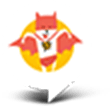
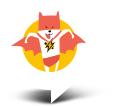
map in mobile layout fixed, new map-pin-mobile.png

diff --git a/source/catalogue.html b/source/catalogue.html
@@ -375,7 +375,8 @@
             <div class="product-card__plus">
               <picture>
                 <source media="(min-width: 768px)" srcset="img/plus.svg">
-                <img src="img/plus-mobile.svg" width="30" height="30" alt="Отображение большего количества товаров" loading="lazy">
+                <img src="img/plus-mobile.svg" width="30" height="30" alt="Отображение большего количества товаров"
+                  loading="lazy">
               </picture>
             </div>
 
@@ -481,22 +482,25 @@
 
     <div class="page-footer__map">
       <picture>
-        <source media="(min-width: 768px)" srcset="img/map-pin-tab&dtp@2x.webp 2x, img/map-pin-tab&dtp.webp">
+        <source media="(min-width: 768px)" type="image/webp"
+          srcset="img/map-pin-tab&dtp@2x.webp 2x, img/map-pin-tab&dtp.webp">
         <source media="(min-width: 768px)" srcset="img/map-pin-tab&dtp@2x.png 2x, img/map-pin-tab&dtp.png">
-        <source srcset="img/map-pin-mobile@2x.webp 2x, img/map-pin-mobile.webp">
-        <source srcset="img/map-pin-mobile@2x.jpg 2x, img/map-pin-mobile.jpg">
-        <img class="pin" width="55" height="53" src="img/map-pin-mobile.jpg" alt="Маркер здания на карте" loading="lazy">
+        <source type="image/webp" srcset="img/map-pin-mobile@2x.webp 2x, img/map-pin-mobile.webp">
+        <source srcset="img/map-pin-mobile@2x.png 2x, img/map-pin-mobile.png">
+        <img class="pin" width="55" height="53" src="img/map-pin-mobile.png" alt="Маркер здания на карте"
+          loading="lazy">
       </picture>
 
-      <!-- карта резиновая - потому размеры большие у изображений -->
+      <!-- карта резиновая - потому размеры большие у изображений, type указывать обязательно без него Сафари не определяет другое изображение -->
       <picture>
+        <source media="(min-width: 1440px)" type="image/webp" srcset="img/map-desktop@2x.webp 2x, img/map-desktop.webp">
         <source media="(min-width: 1440px)" srcset="img/map-desktop@2x.jpg 2x, img/map-desktop.jpg">
-        <source media="(min-width: 1440px)" srcset="img/map-desktop@2x.webp 2x, img/map-desktop.webp">
+        <source media="(min-width: 768px)" type="image/webp" srcset="img/map-tablet@2x.webp 2x, img/map-tablet.webp">
         <source media="(min-width: 768px)" srcset="img/map-tablet@2x.jpg 2x, img/map-tablet.jpg">
-        <source media="(min-width: 768px)" srcset="img/map-tablet@2x.webp 2x, img/map-tablet.webp">
-        <source srcset="img/map-mobile@2x.webp 2x, img/map-mobile.webp">
+        <source type="image/webp" srcset="img/map-mobile@2x.webp 2x, img/map-mobile.webp">
         <source srcset="img/map-mobile@2x.jpg 2x, img/map-mobile.jpg">
-        <img class="map" width="1534" height="1917" src="img/map-mobile.jpg" alt="Карта проезда: ул. Большая Конюшенная, д. 19/8 Санкт-Петербург" loading="lazy">
+        <img class="map" width="425" width="531" src="img/map-mobile.jpg"
+          alt="Карта проезда: ул. Большая Конюшенная, д. 19/8 Санкт-Петербург" loading="lazy">
       </picture>
 
       <!-- real google maps iframe-->
@@ -508,10 +512,10 @@
     </div>
 
     <div class="page-footer__bottom-wrapper">
-      <div class="page-footer__logo-headline" tabindex="0">
+      <a class="page-footer__logo-headline" tabindex="0">
         <img src="img/logo-mobile-name.svg" width="128" height="24" alt="Cat Energy - функциональное питание для котов"
           loading="lazy">
-      </div>
+      </a>
 
       <hr class="divider divider--mobile-only">
 
@@ -541,7 +545,7 @@
         </ul>
       </div>
 
-      <hr class="divider divider--mobile-only">
+      <hr class="divider divider--footer divider--mobile-only">
 
       <div class="page-footer__copyright copyright">
         <a href="#" class="copyright__link">HTML Academy

diff --git a/source/form.html b/source/form.html
@@ -177,23 +177,26 @@
 
     <div class="page-footer__map">
       <picture>
-        <source media="(min-width: 768px)" srcset="img/map-pin-tab&dtp@2x.webp 2x, img/map-pin-tab&dtp.webp">
-        <source media="(min-width: 768px)" srcset="img/map-pin-tab&dtp@2x.png 2x, img/map-pin-tab&dtp.png">
-        <source srcset="img/map-pin-mobile@2x.webp 2x, img/map-pin-mobile.webp">
-        <source srcset="img/map-pin-mobile@2x.jpg 2x, img/map-pin-mobile.jpg">
-        <img class="pin" width="55" height="53" src="img/map-pin-mobile.jpg" alt="Маркер здания на карте"
+        <source media="(min-width: 768px)"  type="image/webp"
+        srcset="img/map-pin-tab&dtp@2x.webp 2x, img/map-pin-tab&dtp.webp">
+        <source media="(min-width: 768px)"
+        srcset="img/map-pin-tab&dtp@2x.png 2x, img/map-pin-tab&dtp.png">
+        <source type="image/webp"
+        srcset="img/map-pin-mobile@2x.webp 2x, img/map-pin-mobile.webp">
+        <source srcset="img/map-pin-mobile@2x.png 2x, img/map-pin-mobile.png">
+        <img class="pin" width="55" height="53" src="img/map-pin-mobile.png" alt="Маркер здания на карте"
           loading="lazy">
       </picture>
 
-      <!-- карта резиновая - потому размеры большие у изображений -->
+      <!-- карта резиновая - потому размеры большие у изображений, type указывать обязательно без него Сафари не определяет другое изображение -->
       <picture>
+        <source media="(min-width: 1440px)" type="image/webp" srcset="img/map-desktop@2x.webp 2x, img/map-desktop.webp">
         <source media="(min-width: 1440px)" srcset="img/map-desktop@2x.jpg 2x, img/map-desktop.jpg">
-        <source media="(min-width: 1440px)" srcset="img/map-desktop@2x.webp 2x, img/map-desktop.webp">
+        <source media="(min-width: 768px)" type="image/webp" srcset="img/map-tablet@2x.webp 2x, img/map-tablet.webp">
         <source media="(min-width: 768px)" srcset="img/map-tablet@2x.jpg 2x, img/map-tablet.jpg">
-        <source media="(min-width: 768px)" srcset="img/map-tablet@2x.webp 2x, img/map-tablet.webp">
-        <source srcset="img/map-mobile@2x.webp 2x, img/map-mobile.webp">
+        <source type="image/webp" srcset="img/map-mobile@2x.webp 2x, img/map-mobile.webp">
         <source srcset="img/map-mobile@2x.jpg 2x, img/map-mobile.jpg">
-        <img class="map" width="1534" height="1917" src="img/map-mobile.jpg"
+        <img class="map" width="425" width="531" src="img/map-mobile.jpg"
           alt="Карта проезда: ул. Большая Конюшенная, д. 19/8 Санкт-Петербург" loading="lazy">
       </picture>
 
@@ -206,10 +209,10 @@
     </div>
 
     <div class="page-footer__bottom-wrapper">
-      <div class="page-footer__logo-headline" tabindex="0">
+      <a class="page-footer__logo-headline" tabindex="0">
         <img src="img/logo-mobile-name.svg" width="128" height="24" alt="Cat Energy - функциональное питание для котов"
           loading="lazy">
-      </div>
+      </a>
 
       <hr class="divider divider--mobile-only">
 
@@ -239,7 +242,7 @@
         </ul>
       </div>
 
-      <hr class="divider divider--mobile-only">
+      <hr class="divider divider--footer divider--mobile-only">
 
       <div class="page-footer__copyright copyright">
         <a href="#" class="copyright__link">HTML Academy

diff --git a/source/index.html b/source/index.html
@@ -227,23 +227,26 @@
 
     <div class="page-footer__map">
       <picture>
-        <source media="(min-width: 768px)" srcset="img/map-pin-tab&dtp@2x.webp 2x, img/map-pin-tab&dtp.webp">
-        <source media="(min-width: 768px)" srcset="img/map-pin-tab&dtp@2x.png 2x, img/map-pin-tab&dtp.png">
-        <source srcset="img/map-pin-mobile@2x.webp 2x, img/map-pin-mobile.webp">
-        <source srcset="img/map-pin-mobile@2x.jpg 2x, img/map-pin-mobile.jpg">
-        <img class="pin" width="55" height="53" src="img/map-pin-mobile.jpg" alt="Маркер здания на карте"
+        <source media="(min-width: 768px)"  type="image/webp"
+        srcset="img/map-pin-tab&dtp@2x.webp 2x, img/map-pin-tab&dtp.webp">
+        <source media="(min-width: 768px)"
+        srcset="img/map-pin-tab&dtp@2x.png 2x, img/map-pin-tab&dtp.png">
+        <source type="image/webp"
+        srcset="img/map-pin-mobile@2x.webp 2x, img/map-pin-mobile.webp">
+        <source srcset="img/map-pin-mobile@2x.png 2x, img/map-pin-mobile.png">
+        <img class="pin" width="55" height="53" src="img/map-pin-mobile.png" alt="Маркер здания на карте"
           loading="lazy">
       </picture>
 
-      <!-- карта резиновая - потому размеры большие у изображений -->
+      <!-- карта резиновая - потому размеры большие у изображений, type указывать обязательно без него Сафари не определяет другое изображение -->
       <picture>
+        <source media="(min-width: 1440px)" type="image/webp" srcset="img/map-desktop@2x.webp 2x, img/map-desktop.webp">
         <source media="(min-width: 1440px)" srcset="img/map-desktop@2x.jpg 2x, img/map-desktop.jpg">
-        <source media="(min-width: 1440px)" srcset="img/map-desktop@2x.webp 2x, img/map-desktop.webp">
+        <source media="(min-width: 768px)" type="image/webp" srcset="img/map-tablet@2x.webp 2x, img/map-tablet.webp">
         <source media="(min-width: 768px)" srcset="img/map-tablet@2x.jpg 2x, img/map-tablet.jpg">
-        <source media="(min-width: 768px)" srcset="img/map-tablet@2x.webp 2x, img/map-tablet.webp">
-        <source srcset="img/map-mobile@2x.webp 2x, img/map-mobile.webp">
+        <source type="image/webp" srcset="img/map-mobile@2x.webp 2x, img/map-mobile.webp">
         <source srcset="img/map-mobile@2x.jpg 2x, img/map-mobile.jpg">
-        <img class="map" width="1534" height="1917" src="img/map-mobile.jpg"
+        <img class="map" width="425" width="531" src="img/map-mobile.jpg"
           alt="Карта проезда: ул. Большая Конюшенная, д. 19/8 Санкт-Петербург" loading="lazy">
       </picture>
 
@@ -256,10 +259,10 @@
     </div>
 
     <div class="page-footer__bottom-wrapper">
-      <div class="page-footer__logo-headline" tabindex="0">
+      <a class="page-footer__logo-headline" tabindex="0">
         <img src="img/logo-mobile-name.svg" width="128" height="24" alt="Cat Energy - функциональное питание для котов"
           loading="lazy">
-      </div>
+      </a>
 
       <hr class="divider divider--mobile-only">
 

diff --git a/source/sass/blocks/page-header.scss b/source/sass/blocks/page-header.scss
@@ -148,8 +148,6 @@
     padding-bottom: 20px;
 
     margin: 0 auto;
-    // margin-left: 110px;
-    // margin-right: 100px;
 
     &::after {
       content: "";
@@ -159,7 +157,7 @@
       height: 696px;
 
       background-color: #65a93c; // color fallback
-      background-image: url(../img/index-bg.jpg);
+      background-image: url(../img/index-bg-desktop.jpg);
       background-repeat: no-repeat;
       background-position: 100% 0;
 
@@ -174,6 +172,18 @@
   .page-header__logo {
     width: 202px;
     height: 59px;
+  }
+
+}
+
+@media screen and (min-width: $desktop-width) and (min-resolution: 1.5dppx) {
+
+  .page-header {
+    &::after {
+      background-image: url(../img/index-bg-desktop@2x.jpg);
+      background-size: contain;
+      background-repeat: no-repeat;
+    }
   }
 
 }
